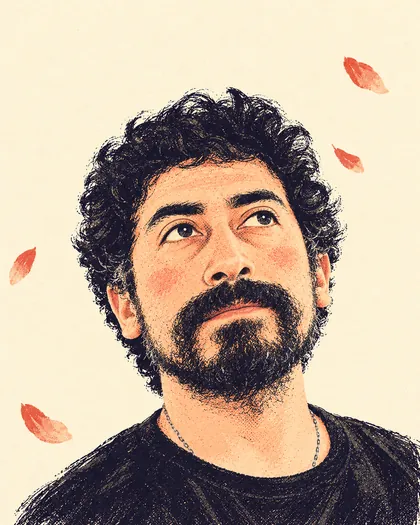
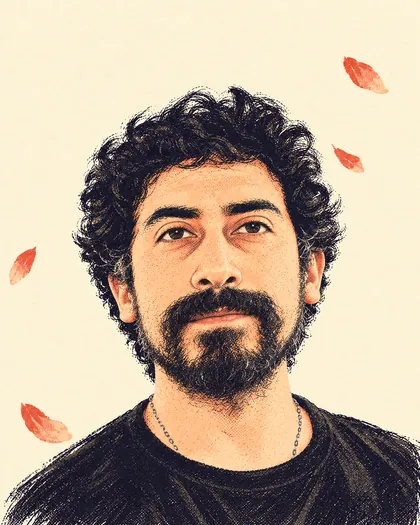
Make the About portrait plainer
Head level and looking at the viewer with a relaxed expression, without
the rosy cheeks.

Changed region(s): [[0.0, 0.1524, 1.0, 1.0]]

diff --git a/src/pages/about/about.tsx b/src/pages/about/about.tsx
@@ -19,7 +19,7 @@ const AboutPage = () => {
           sizes="(max-width: 860px) 60vw, 360px"
           width={420}
           height={525}
-          alt="Portrait of Elvis looking up, with camellia petals drifting by."
+          alt="Portrait of Elvis, with camellia petals drifting by."
           decoding="async"
         />
         {/* "Profile" */}

diff --git a/AGENTS.md b/AGENTS.md
@@ -69,5 +69,5 @@ Showa-era Japanese print: cream paper, indigo ink, salmon and peach, like a 1970
 
 - **Palette** (`src/themes/theme.css`): cream `#FFF5E0`, peach `#FFDBC3`, salmon `#EE9E8E`, indigo `#190933`, plus vermilion `#D9482B`, sage `#9DAA7C` and mustard `#E9A93B` as small accents. Salmon, vermilion, sage and mustard don't reach 4.5:1 on cream: use them for shapes and large display type only; text uses the `--text*` and `--accent-text` tokens, which meet WCAG AA. The dark theme ("night") turns the indigo into the paper. A tiled SVG noise (`--grain` in `src/index.css`) gives the background a paper grain.
 - **Decorative Japanese** (ブログ, プロフィール, ありがとう...) is always `aria-hidden="true"` and `lang="ja"`, with a comment giving its meaning. Keep it to kana so it renders with the bundled font.
-- **Illustrations** live in `public/images/art/` in two widths (`name-<w>.webp` and twice that) for `srcset`. They show Elvis, drawn from reference photos in the same style (no hat or cap). Post covers follow the same style. They were generated with Codex's image generation using the user's reference images for style; to keep new ones consistent, describe the post's subject and append: "vintage Japanese screen-print / risograph poster illustration (Showa-era 1960s-70s print aesthetic), flat bold shapes, slightly misregistered ink layers, visible paper grain and subtle halftone dots; palette: deep indigo-black #190933, salmon #EE9E8E, peach #FFDBC3, cream paper #FFF5E0, small touches of vermilion #D9482B and sage #9DAA7C; no text, no logos, no famous or copyrighted characters". Generate landscape and crop the center to 800×457.
+- **Illustrations** live in `public/images/art/` in two widths (`name-<w>.webp` and twice that) for `srcset`. They show Elvis, drawn from reference photos in the same style: no hat or cap, no rosy cheeks, natural everyday expressions. Post covers follow the same style. They were generated with Codex's image generation using the user's reference images for style; to keep new ones consistent, describe the post's subject and append: "vintage Japanese screen-print / risograph poster illustration (Showa-era 1960s-70s print aesthetic), flat bold shapes, slightly misregistered ink layers, visible paper grain and subtle halftone dots; palette: deep indigo-black #190933, salmon #EE9E8E, peach #FFDBC3, cream paper #FFF5E0, small touches of vermilion #D9482B and sage #9DAA7C; no text, no logos, no famous or copyrighted characters". Generate landscape and crop the center to 800×457.
 - **Brand**: the header seal and the favicons (`public/images/favicon*`, `android-chrome-*`, `apple-touch-icon.png`) are a vermilion hanko with "ブレビ" (Brevi); `public/images/og-card.jpg` is the 1200×630 social card.
